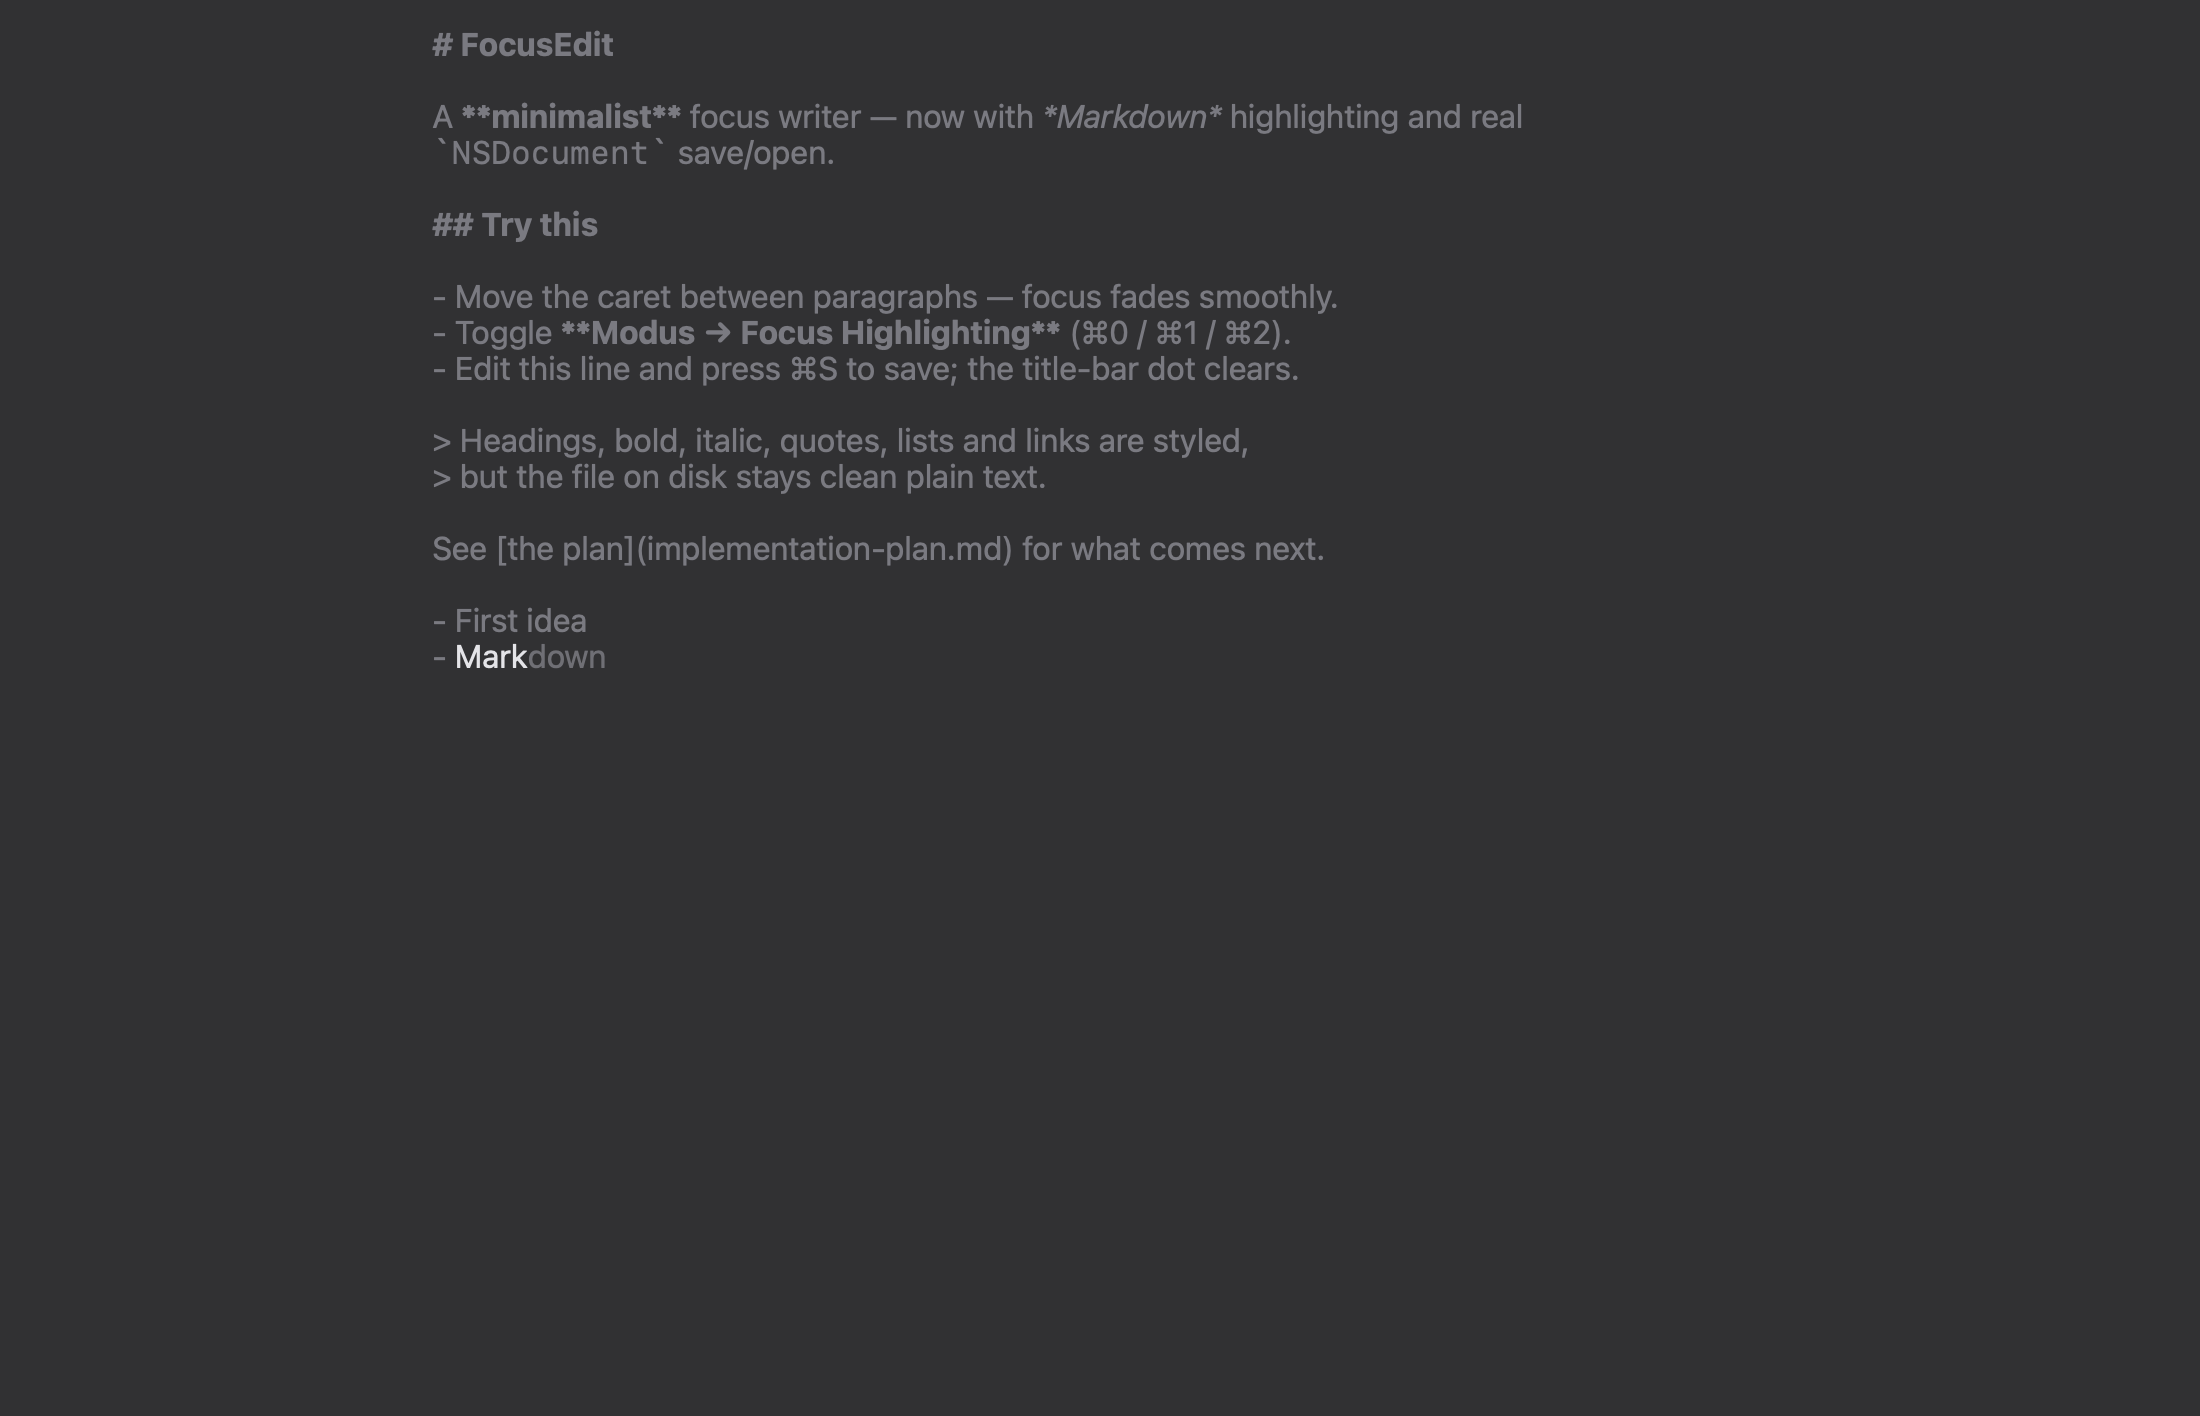
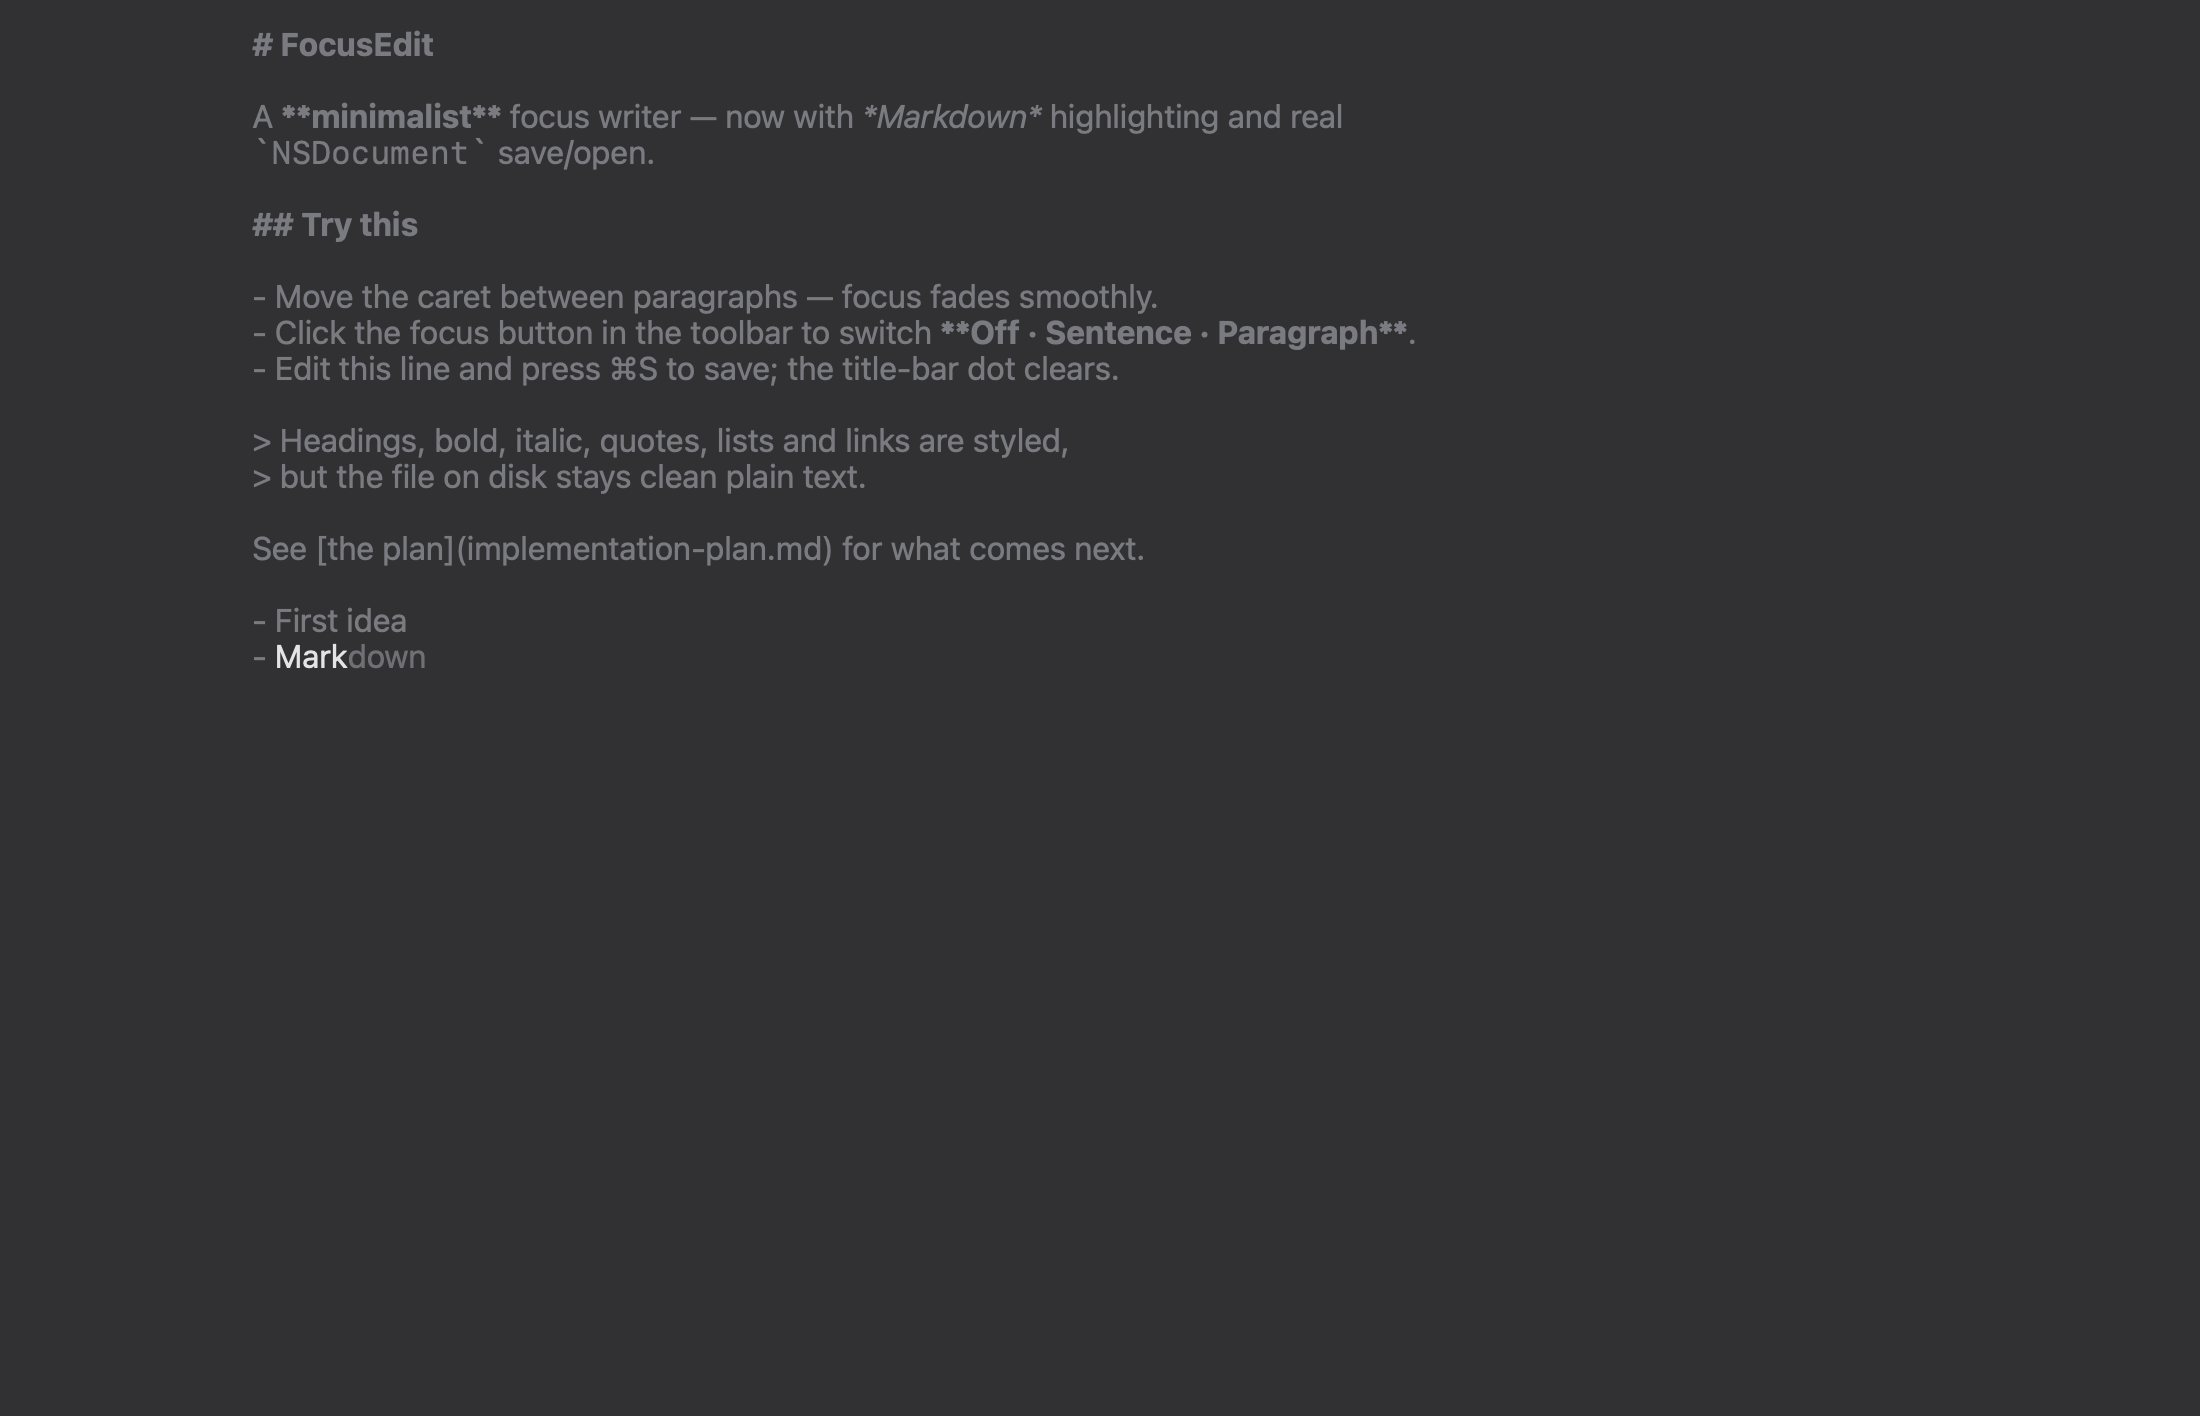
FocusEdit 0.3.3: drop ⌘0/⌘1/⌘2 focus-mode shortcuts
They clashed with users' own shortcuts. Focus modes switch with the
toolbar focus button (click cycles Off · Sentence · Paragraph, the arrow
opens the list) and Modus ▸ Focus Highlighting; START_HERE.md explains how
to bind a key in System Settings ▸ Keyboard ▸ App Shortcuts. Tooltips, the
hints popover, README, START_HERE, examples/welcome.md and the README
screenshots are updated.

diff --git a/Sources/FocusEdit/main.swift b/Sources/FocusEdit/main.swift
@@ -264,9 +264,10 @@ enum MenuBuilder {
         let focusParent = NSMenuItem(title: "Focus Highlighting", action: nil, keyEquivalent: "")
         let focusMenu = NSMenu(title: "Focus Highlighting")
         focusParent.submenu = focusMenu
-        for (mode, key) in [(FocusTextView.FocusMode.off, "0"),
-                            (.sentence, "1"), (.paragraph, "2")] {
-            let it = item(mode.title, Selector(("selectFocusMode:")), key)
+        // No key equivalents: ⌘0/⌘1/⌘2 clash with users' own shortcuts. The toolbar
+        // button cycles the modes; System Settings ▸ Keyboard ▸ App Shortcuts can bind keys.
+        for mode in [FocusTextView.FocusMode.off, .sentence, .paragraph] {
+            let it = item(mode.title, Selector(("selectFocusMode:")), "")
             it.tag = mode.rawValue
             focusMenu.addItem(it)
         }

diff --git a/Sources/FocusEdit/DocumentWindowController.swift b/Sources/FocusEdit/DocumentWindowController.swift
@@ -95,7 +95,7 @@ final class DocumentWindowController: NSWindowController, NSToolbarDelegate,
             item.image = ToolbarSymbol.image("scope")
             item.label = "Focus"
             item.paletteLabel = "Focus"
-            item.toolTip = "Focus highlighting — click to cycle, arrow for the list (⌘0 ⌘1 ⌘2)"
+            item.toolTip = "Focus highlighting — click to cycle Off · Sentence · Paragraph, arrow for the list"
             item.action = Selector(("cycleFocusMode:"))
             item.showsIndicator = true
             let menu = NSMenu()

diff --git a/Sources/FocusEdit/HintsViewController.swift b/Sources/FocusEdit/HintsViewController.swift
@@ -48,7 +48,7 @@ final class HintsViewController: NSViewController {
                 ("( [ { \" `", "Close automatically; select text first to wrap it"),
             ]),
             Section(title: "Focus", rows: [
-                ("⌘0 ⌘1 ⌘2", "Highlight off · sentence · paragraph"),
+                ("◎ toolbar", "Highlight off · sentence · paragraph — click to cycle"),
                 ("⌘T", "Keep the active line centred"),
                 ("⌘U", "Typewriter sounds"),
                 ("⌃⌘F", "Full screen — toolbar and menu hide"),

diff --git a/Sources/FocusEdit/EditorViewController.swift b/Sources/FocusEdit/EditorViewController.swift
@@ -367,7 +367,7 @@ final class EditorViewController: NSViewController, NSTextViewDelegate,
                                  on: sounds.enabled)
         case #selector(cycleFocusMode(_:)):
             ToolbarSymbol.update(item, "scope", on: textView.focusMode != .off)
-            item.toolTip = "Focus: \(textView.focusMode.title) — click to change (⌘0 ⌘1 ⌘2)"
+            item.toolTip = "Focus: \(textView.focusMode.title) — click to change, arrow for the list"
         default:
             break
         }

diff --git a/START_HERE.md b/START_HERE.md
@@ -20,7 +20,7 @@ cd ~/Project/rea-lab/work/uFocus/FocusEdit
 ## Первые пять минут
 
 1. Откройте `examples/welcome.md` и подвигайте курсор стрелками вверх-вниз: яркий только текущий абзац, остальные плавно гаснут.
-2. Нажмите **⌘1** — подсветка по предложению, **⌘2** — по абзацу, **⌘0** — выключить.
+2. Щёлкните кнопку-прицел в тулбаре: режимы идут по кругу — **Off → Sentence → Paragraph** (выкл → по предложению → по абзацу). Стрелка рядом с кнопкой открывает список.
 3. Перейдите в конец, нажмите Return и наберите `- Ma` — появится серое продолжение слова. **Tab** принимает его.
 4. Нажмите Return ещё раз — список продолжится сам. Return на пустом пункте завершает список.
 5. Нажмите **⌘?** — откроется шпаргалка по клавишам для текущего типа документа.
@@ -48,18 +48,20 @@ cd ~/Project/rea-lab/work/uFocus/FocusEdit
 
 | Приём | Как | Клавиша |
 |---|---|---|
-| Подсветка текущего предложения или абзаца | кнопка-прицел в тулбаре (клик — переключить, стрелка — список) | ⌘1 · ⌘2 · ⌘0 |
+| Подсветка текущего предложения или абзаца | кнопка-прицел в тулбаре (клик — переключить, стрелка — список) или **Modus ▸ Focus Highlighting** | своя, см. ниже |
 | Строка всегда по центру окна («печатная машинка») | кнопка `A|` | ⌘T |
 | Звуки печатной машинки | кнопка динамика | ⌘U |
 | Полный экран без тулбара и меню | зелёная кнопка окна | ⌃⌘F |
 
 В полном экране тулбар и меню прячутся; подведите указатель к верхнему краю — они появятся.
 
+**Своя клавиша для режима подсветки.** Готовых клавиш у режимов нет, чтобы не мешать вашим сочетаниям. Назначить свою: **Системные настройки ▸ Клавиатура ▸ Сочетания клавиш… ▸ Сочетания клавиш для программ ▸ +**, программа — **FocusEdit**, название пункта меню — `Modus->Focus Highlighting->Sentence` (или `->Paragraph`, `->Off`), затем нажмите нужное сочетание. Оно появится рядом с пунктом меню сразу или после перезапуска FocusEdit.
+
 **Приёмы:**
 
 - **Черновик:** подсветка по абзацу + печатная машинка + полный экран. Глаза всё время в одной точке, написанное не отвлекает.
-- **Редактура:** выключите подсветку (**⌘0**) и печатную машинку (**⌘T**) — видно весь текст.
-- **Трудный абзац:** подсветка по предложению (**⌘1**) — работайте фразой за фразой.
+- **Редактура:** выключите подсветку (прицел → **Off**) и печатную машинку (**⌘T**) — видно весь текст.
+- **Трудный абзац:** подсветка по предложению (прицел → **Sentence**) — работайте фразой за фразой.
 - Все настройки — тема, шрифт, размер, режимы — запоминаются между запусками.
 
 ## Подсказки при наборе
@@ -148,7 +150,6 @@ cd ~/Project/rea-lab/work/uFocus/FocusEdit
 | Клавиши | Действие |
 |---|---|
 | ⌘N · ⌘O · ⌘S · ⇧⌘S | новый · открыть · сохранить · сохранить как |
-| ⌘0 · ⌘1 · ⌘2 | подсветка: выкл · предложение · абзац |
 | ⌘T · ⌘U · ⌃⌘F | печатная машинка · звуки · полный экран |
 | Tab / → · Esc · ⌥Esc | принять подсказку · убрать · список вариантов |
 | ⌘B · ⌘I · ⌘K | жирный · курсив · ссылка |

diff --git a/README.md b/README.md
@@ -2,7 +2,7 @@
 
 FocusEdit is a minimalist macOS text editor for distraction-free writing. It keeps your line in the middle of the screen, fades everything you are not working on, and saves plain text files: Markdown, Fountain screenplays or ordinary text.
 
-**Version:** `0.3.2`, released 19.10.2026 · [changelog](CHANGELOG.md) · [how versions are managed](VERSION_MANAGEMENT.md)
+**Version:** `0.3.3`, released 19.10.2026 · [changelog](CHANGELOG.md) · [how versions are managed](VERSION_MANAGEMENT.md)
 
 <p align="center">
   <img src="docs/images/window-light.png" width="760" alt="FocusEdit editing a Markdown document: a toolbar with focus, typewriter, sound, theme, preview, hints and outline buttons, the word count under the title, faded paragraphs around the active list item, and a grey suggestion completing the word Markdown">
@@ -38,7 +38,6 @@ FocusEdit is a minimalist macOS text editor for distraction-free writing. It kee
 |---|---|
 | Tab or → | Accept the grey suggestion |
 | Esc · ⌥Esc | Dismiss the suggestion · list all completions |
-| ⌘0 · ⌘1 · ⌘2 | Focus highlighting off · sentence · paragraph |
 | ⌘T | Keep the active line centred |
 | ⌘U | Typewriter sounds |
 | ⇧⌘P | Live preview (Markdown) |

diff --git a/CHANGELOG.md b/CHANGELOG.md
@@ -6,6 +6,10 @@
 
 ## [Unreleased]
 
+## [0.3.3] - 2026-10-19
+### Changed
+- Убраны клавиши ⌘0 / ⌘1 / ⌘2 у режимов подсветки — они конфликтовали с пользовательскими сочетаниями. Режимы переключает кнопка-прицел в тулбаре и меню Modus ▸ Focus Highlighting; свою клавишу можно назначить в Системных настройках (START_HERE.md).
+
 ## [0.3.2] - 2026-10-19
 ### Added
 - `package.sh` собирает универсальный Release (Apple Silicon и Intel) и DMG `.build/dist/FocusEdit-X.Y.Z.dmg` со ссылкой на «Программы», проверяет подпись и DMG; `--no-dmg` — только приложение, `--open` — открыть DMG.

diff --git a/examples/welcome.md b/examples/welcome.md
@@ -6,7 +6,7 @@ A **minimalist** focus writer — now with *Markdown* highlighting and real
 ## Try this
 
 - Move the caret between paragraphs — focus fades smoothly.
-- Toggle **Modus → Focus Highlighting** (⌘0 / ⌘1 / ⌘2).
+- Click the focus button in the toolbar to switch **Off · Sentence · Paragraph**.
 - Edit this line and press ⌘S to save; the title-bar dot clears.
 
 > Headings, bold, italic, quotes, lists and links are styled,
